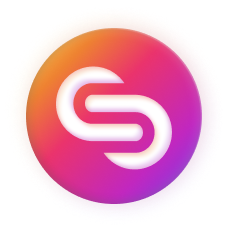
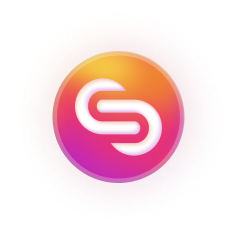
ft[gradient] => ✌ Fully implement new gradient

diff --git a/lib/utils/color/color.util.dart b/lib/utils/color/color.util.dart
@@ -1,5 +1,4 @@
-import 'package:flutter/material.dart' hide BoxShadow;
-import 'package:flutter_inset_box_shadow/flutter_inset_box_shadow.dart';
+import 'package:flutter/material.dart';
 import 'package:safe/utils/constants/constants.util.dart';
 
 class ColorUtils {
@@ -25,18 +24,16 @@ class ColorUtils {
   List<BoxShadow> applyGradientShadow(
     double size, {
     bool isColorful = true,
-    double opacity = 1,
+    double? opacity,
   }) {
     double blurRad = (20 / 64) * size;
-    double neutralOffset = (2 / 64) * size;
     double colorOffset = (4 / 64) * size;
-    double lineRad = (1 / 64) * size;
 
     List<BoxShadow> colors = isColorful
         ? List.generate(
             3,
             (i) => BoxShadow(
-              color: kPrimaryGradientColors[2 * i].withOpacity(0.1),
+              color: kPrimaryGradientColors[2 * i].withOpacity(opacity ?? 0.1),
               blurRadius: blurRad,
               offset: Offset(
                 (i.isEven ? -1 : 1) * colorOffset,
@@ -46,26 +43,6 @@ class ColorUtils {
           )
         : [];
 
-    return [
-      ...colors,
-      BoxShadow(
-        offset: Offset(neutralOffset, -neutralOffset),
-        color: Colors.black.withOpacity(0.6 * opacity),
-        blurRadius: blurRad,
-        inset: true,
-      ),
-      BoxShadow(
-        offset: Offset(neutralOffset, neutralOffset),
-        blurRadius: blurRad,
-        color: Colors.white.withOpacity(0.4 * opacity),
-        inset: true,
-      ),
-      BoxShadow(
-        offset: Offset(0, neutralOffset),
-        color: Colors.white.withOpacity(0.7 * opacity),
-        blurRadius: lineRad,
-        inset: true,
-      ),
-    ];
+    return colors;
   }
 }

diff --git a/lib/widgets/mutable_pill/mutable_pill.widget.dart b/lib/widgets/mutable_pill/mutable_pill.widget.dart
@@ -1,11 +1,10 @@
-import 'package:flutter_inset_box_shadow/flutter_inset_box_shadow.dart';
+import 'package:flutter/material.dart';
 import 'package:provider/provider.dart';
 import 'package:safe/core.dart';
 import 'package:safe/utils/constants/constants.util.dart';
 import 'package:safe/utils/icon/icon.util.dart';
 import 'package:safe/widgets/mutable_icon/mutable_icon.widget.dart';
 import 'package:safe/widgets/mutable_text/mutable_text.widget.dart';
-import 'package:flutter/material.dart' hide BoxDecoration, BoxShadow;
 
 class MutablePill extends StatefulWidget {
   final String text;
@@ -66,15 +65,20 @@ class _MutablePillState extends State<MutablePill> {
             )
           ]
         ],
+        border: widget.color == null
+            ? Border.all(
+                width: 1,
+                color: Colors.white.withOpacity(0.3),
+              )
+            : null,
         borderRadius: BorderRadius.circular(20),
         color: widget.color != null ? kColorMap[widget.color!] : null,
-        gradient: widget.color != null
-            ? null
-            : LinearGradient(
-                colors: kPrimaryGradientColors,
-                begin: Alignment(-1.5, -1.2),
-                end: Alignment(1, 3.5),
-              ),
+        image: widget.color == null
+            ? DecorationImage(
+                image: AssetImage("assets/images/gradient.png"),
+                fit: BoxFit.cover,
+              )
+            : null,
       ),
       child: Row(
         mainAxisAlignment: MainAxisAlignment.start,

diff --git a/lib/widgets/mutable_permission_card/local_widgets/status_circle.widget.dart b/lib/widgets/mutable_permission_card/local_widgets/status_circle.widget.dart
@@ -1,5 +1,4 @@
-import 'package:flutter/material.dart' hide BoxShadow, BoxDecoration;
-import 'package:flutter_inset_box_shadow/flutter_inset_box_shadow.dart';
+import 'package:flutter/material.dart';
 import 'package:provider/provider.dart';
 import 'package:safe/core.dart';
 import 'package:safe/utils/constants/constants.util.dart';
@@ -27,17 +26,18 @@ class _StatusCircleState extends State<StatusCircle> {
       decoration: BoxDecoration(
         border: !widget.isAllowed
             ? Border.all(
-                width: 1.5,
+                width: kBorderWidth,
                 color: kColorMap[MutableColor.neutral4]!,
               )
-            : null,
+            : Border.all(
+                width: kBorderWidth,
+                color: Colors.white.withOpacity(0.3),
+              ),
         boxShadow:
             widget.isAllowed ? core.utils.color.applyGradientShadow(20) : null,
-        gradient: widget.isAllowed
-            ? LinearGradient(
-                colors: kPrimaryGradientColors,
-                begin: Alignment.topLeft,
-                end: Alignment.bottomRight,
+        image: widget.isAllowed
+            ? DecorationImage(
+                image: AssetImage("assets/images/gradient.png"),
               )
             : null,
         shape: BoxShape.circle,

diff --git a/lib/widgets/mutable_nav_safe_button/mutable_nav_safe_button.widget.dart b/lib/widgets/mutable_nav_safe_button/mutable_nav_safe_button.widget.dart
@@ -1,5 +1,4 @@
-import 'package:flutter/material.dart' hide BoxShadow, BoxDecoration;
-import 'package:flutter_inset_box_shadow/flutter_inset_box_shadow.dart';
+import 'package:flutter/material.dart';
 import 'package:provider/provider.dart';
 import 'package:safe/core.dart';
 import 'package:safe/utils/constants/constants.util.dart';
@@ -17,14 +16,16 @@ class MutableNavSafeButton extends StatelessWidget {
       onTap: onTap,
       animateBeforeVoidCallback: true,
       child: Container(
-        height: kNavButtonSize,
-        width: kNavButtonSize,
+        height: kNavButtonSize + (kBorderWidth * 2),
+        width: kNavButtonSize + (kBorderWidth * 2),
         decoration: BoxDecoration(
           shape: BoxShape.circle,
-          gradient: LinearGradient(
-            colors: kPrimaryGradientColors,
-            begin: Alignment.topLeft,
-            end: Alignment.bottomRight,
+          image: DecorationImage(
+            image: AssetImage("assets/images/gradient.png"),
+          ),
+          border: Border.all(
+            width: kBorderWidth,
+            color: Colors.white.withOpacity(0.3),
           ),
           boxShadow: core.utils.color.applyGradientShadow(kNavButtonSize),
         ),

diff --git a/lib/widgets/mutable_icon_sphere/mutable_icon_sphere.widget.dart b/lib/widgets/mutable_icon_sphere/mutable_icon_sphere.widget.dart
@@ -1,5 +1,4 @@
-import 'package:flutter/material.dart' hide BoxShadow, BoxDecoration;
-import 'package:flutter_inset_box_shadow/flutter_inset_box_shadow.dart';
+import 'package:flutter/material.dart';
 import 'package:provider/provider.dart';
 import 'package:safe/core.dart';
 import 'package:safe/utils/constants/constants.util.dart';
@@ -28,12 +27,14 @@ class MutableIconSphere extends StatelessWidget {
       ),
       decoration: BoxDecoration(
         shape: BoxShape.circle,
-        gradient: LinearGradient(
-          colors: kPrimaryGradientColors,
-          begin: Alignment.topLeft,
-          end: Alignment.bottomRight,
+        image: DecorationImage(
+          image: AssetImage("assets/images/gradient.png"),
         ),
-        boxShadow: core.utils.color.applyGradientShadow(64),
+        border: Border.all(
+          width: 2,
+          color: Colors.white.withOpacity(0.3),
+        ),
+        boxShadow: core.utils.color.applyGradientShadow(64, opacity: 0.2),
       ),
     );
   }

diff --git a/lib/widgets/mutable_play_button/mutable_play_button.widget.dart b/lib/widgets/mutable_play_button/mutable_play_button.widget.dart
@@ -31,11 +31,14 @@ class _MutablePlayButtonState extends State<MutablePlayButton> {
         width: 60,
         decoration: BoxDecoration(
           shape: BoxShape.circle,
-          boxShadow: core.utils.color.applyGradientShadow(60, opacity: 0.2),
-          gradient: LinearGradient(
-            colors: kPrimaryGradientColors,
-            begin: Alignment.topLeft,
-            end: Alignment.bottomRight,
+          boxShadow: core.utils.color.applyGradientShadow(100, opacity: 0.25),
+          image: DecorationImage(
+            image: AssetImage("assets/images/gradient.png"),
+            fit: BoxFit.cover,
+          ),
+          border: Border.all(
+            width: 2,
+            color: Colors.white.withOpacity(0.26),
           ),
         ),
         child: Center(

diff --git a/lib/widgets/mutable_incident_card/local_widgets/incident_card_image.widget.dart b/lib/widgets/mutable_incident_card/local_widgets/incident_card_image.widget.dart
@@ -4,10 +4,7 @@ import 'package:provider/provider.dart';
 import 'package:safe/core.dart';
 import 'package:safe/models/incident/incident.model.dart';
 import 'package:safe/utils/constants/constants.util.dart';
-import 'package:safe/utils/icon/icon.util.dart';
-import 'package:safe/widgets/mutable_button/mutable_button.widget.dart';
 import 'package:safe/widgets/mutable_cached_image/mutable_cached_image.widget.dart';
-import 'package:safe/widgets/mutable_icon/mutable_icon.widget.dart';
 import 'package:safe/widgets/mutable_incident_card/local_widgets/incident_card_play_button.widget.dart';
 
 class IncidentCardImage extends StatefulWidget {

diff --git a/lib/screens/welcome/welcome.screen.dart b/lib/screens/welcome/welcome.screen.dart
@@ -49,10 +49,9 @@ class _WelcomeScreenState extends State<WelcomeScreen> {
                   children: [
                     Image.asset(
                       "assets/images/welcome_button.png",
-                      height: 52,
-                      width: 52,
+                      height: 70,
+                      width: 70,
                     ),
-                    SizedBox(width: 8),
                     MutableText(
                       "Safe",
                       size: 34,

diff --git a/lib/widgets/mutable_incident_card/local_widgets/incident_card_body.widget.dart b/lib/widgets/mutable_incident_card/local_widgets/incident_card_body.widget.dart
@@ -100,7 +100,7 @@ class _IncidentCardBodyState extends State<IncidentCardBody> {
           ),
           SizedBox(width: 10),
           MutablePill(
-            shadowPronouncement: 50,
+            shadowPronouncement: 70,
             text: core.utils.language
                     .langMap[core.state.preferences.language]!["incident_card"]
                 ["secured"],
